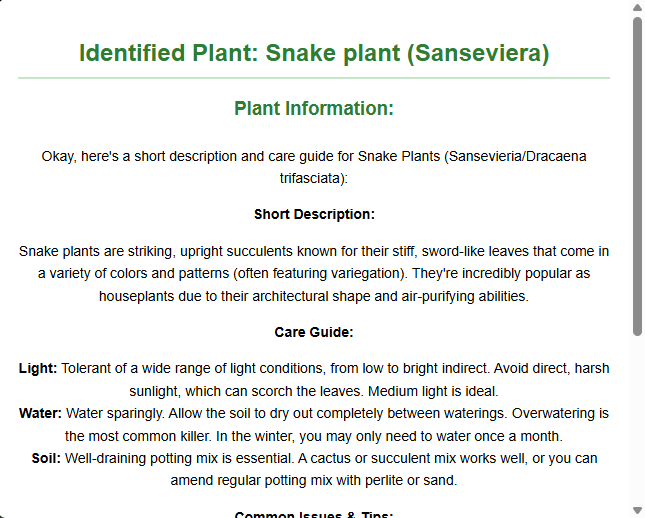
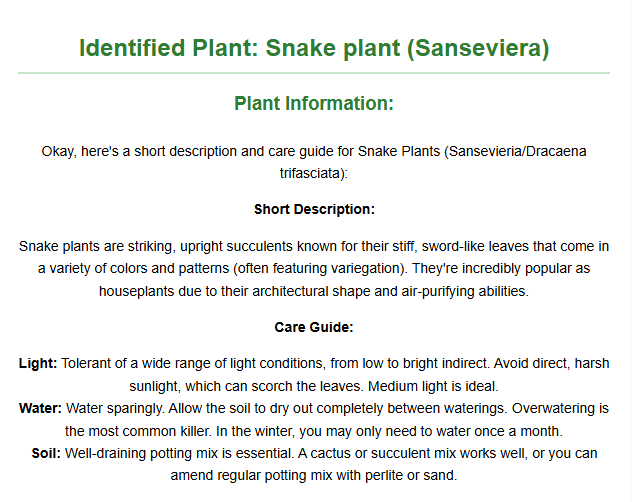
ReadMe Progress

diff --git a/README.md b/README.md
@@ -193,7 +193,11 @@ Step 3: Enter the cURL Command to Test Plant Identification
 ## Project Structure
 Explain the structure of the project directory. Example:
 ```bash
+
+```
 .
+│   ├── 📂 components/
+│   │   ├── <component>
 ├── 📂 src/
 │   ├── 📂 components/
 │   │   ├── <component>
